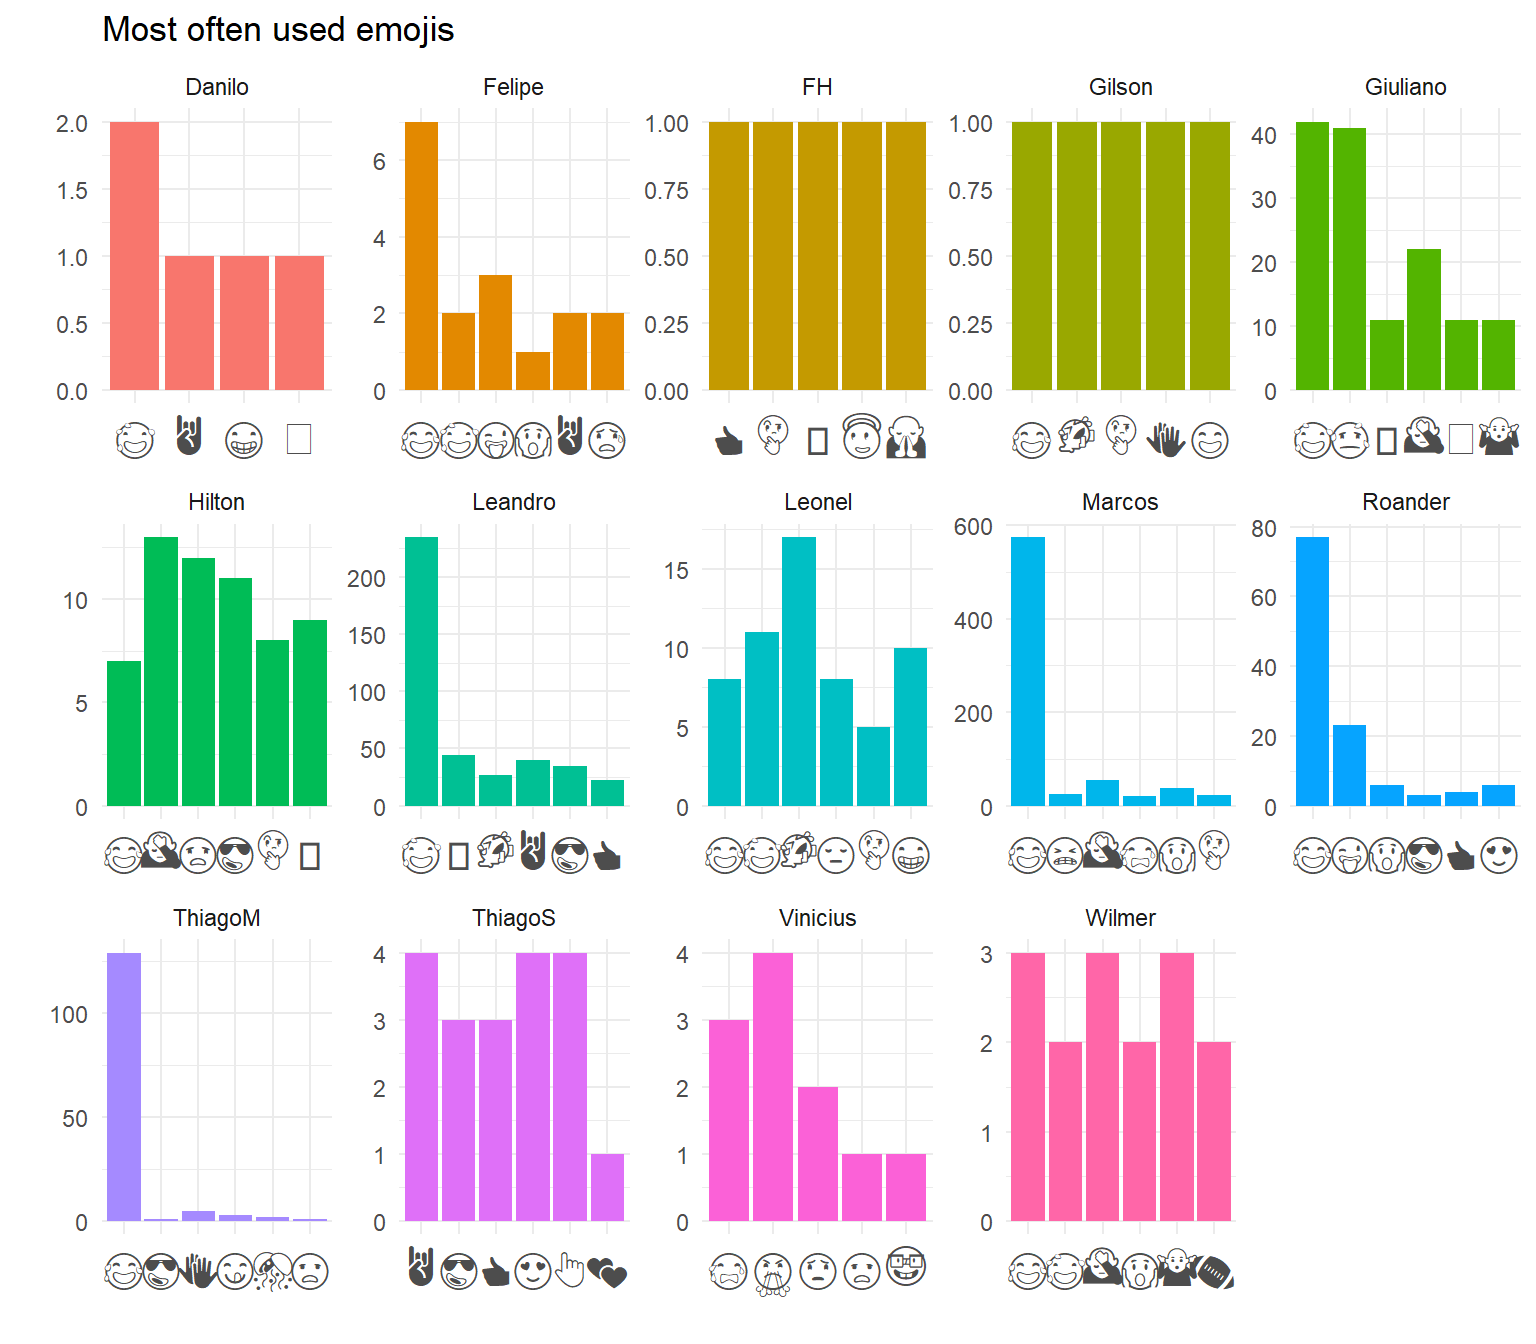
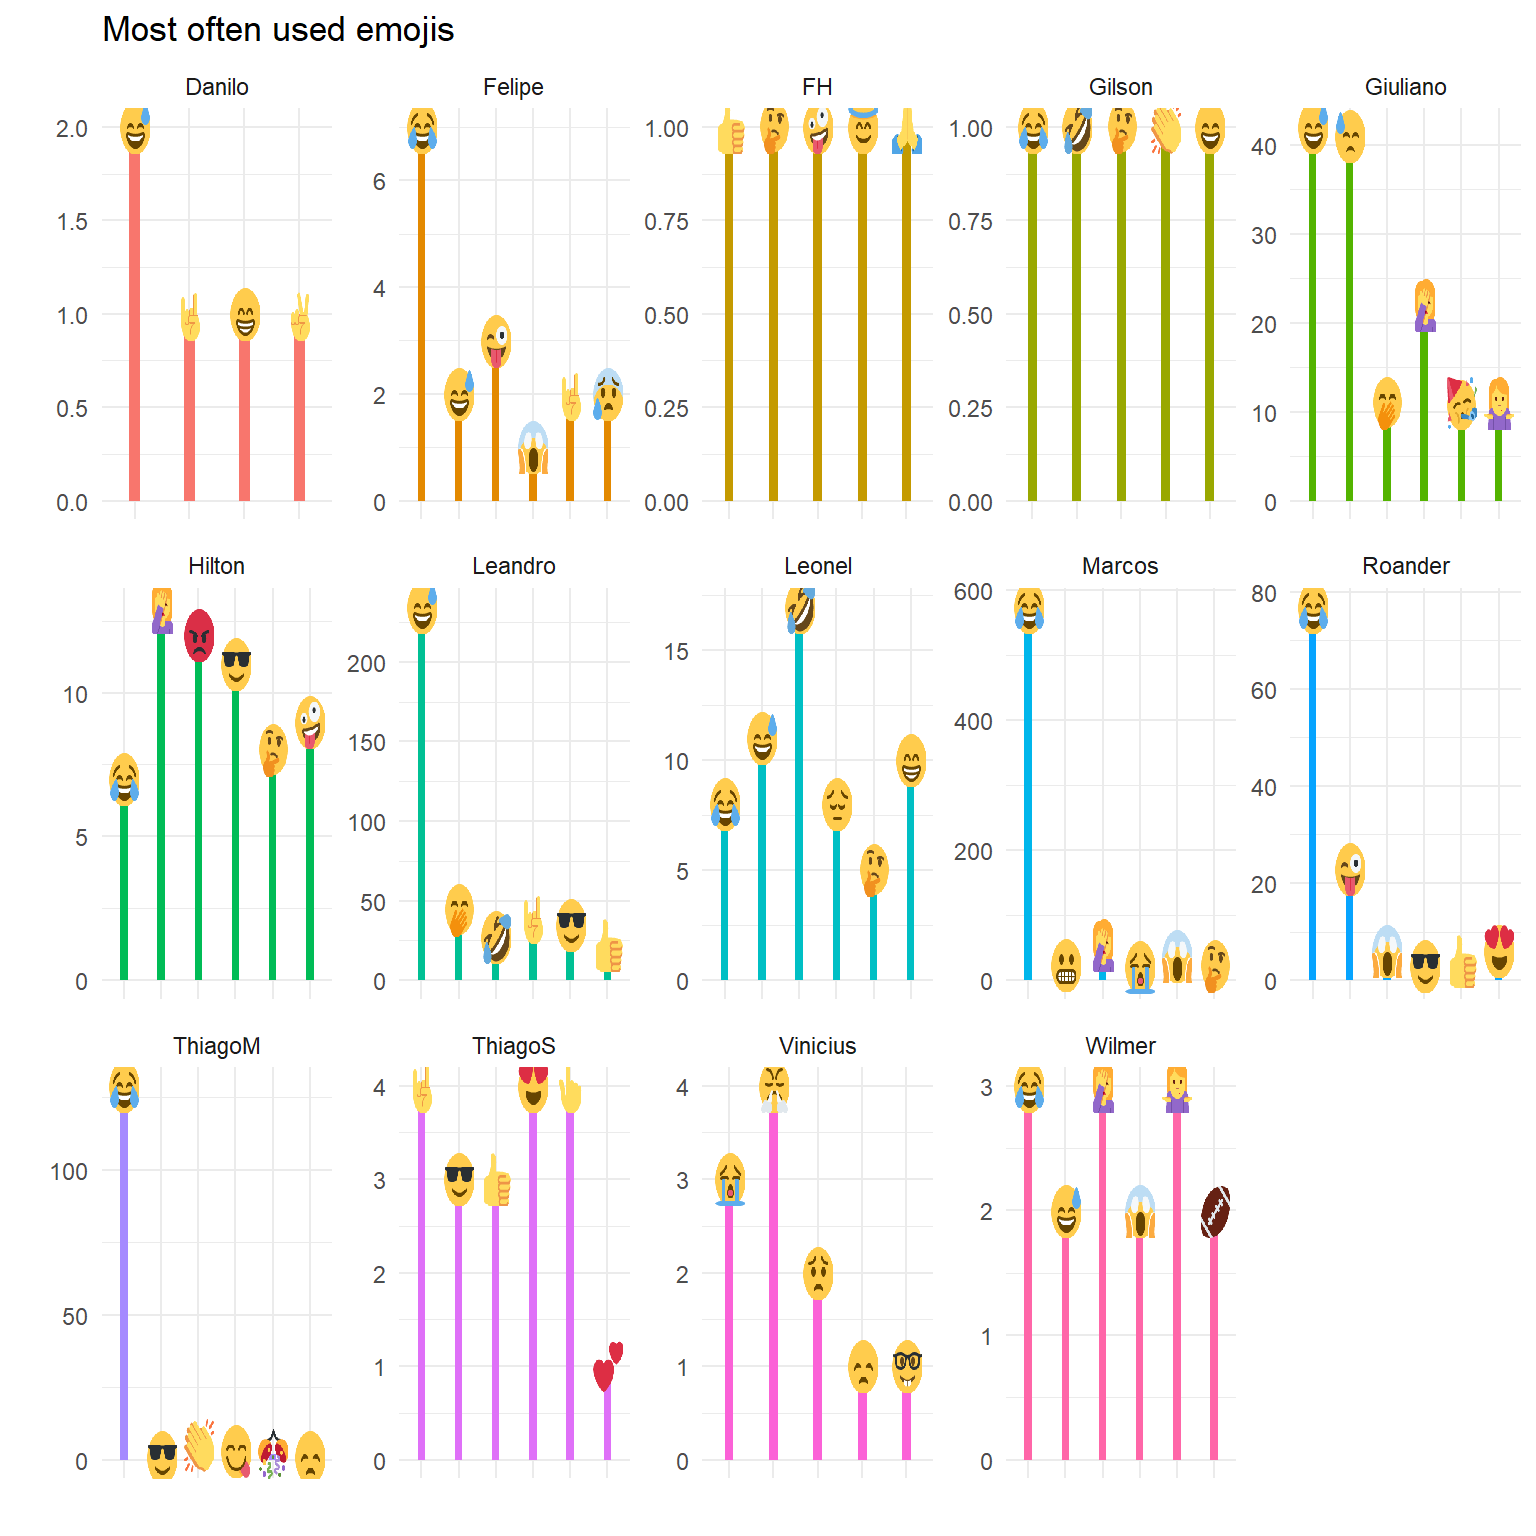
Mudança dos graficos de emoji para fazer fetch de png

diff --git a/content/post/2019-10-14-análise-de-sentimentos-via-emojis-em-chat-do-whatsapp.html b/content/post/2019-10-14-análise-de-sentimentos-via-emojis-em-chat-do-whatsapp.html
@@ -362,7 +362,7 @@ chat %&gt;%
 </div>
 <div id="emojis" class="section level2">
 <h2>Emoji’s</h2>
-<p>Como o <code>rwhatsapp</code> importa separadamente a informação sobre Emoji’s, podemos explorar a popularidade dos mesmos.</p>
+<p>Emojis são símbolos gráficos <a href="https://home.unicode.org/">Unicode</a>, usados como uma abreviação para expressar conceitos e idéias, existem centenas de emojis. Como o <code>rwhatsapp</code> importa separadamente a informação sobre Emoji’s, podemos explorar a sua popularidade nas trocas de mensagem do grupo.</p>
 <pre class="r"><code># lets see the nested emoji structure
 chat %&gt;% 
   select(time, author, emoji, emoji_name) %&gt;% 
@@ -532,9 +532,12 @@ angry face with horns
 <div id="emoji-mais-usado" class="section level3">
 <h3>EMOJI mais usado</h3>
 <p>Antes de <em>rankear</em> os <code>Emijis</code>, vamos remover as usas variações. As variações é quando vc altera por exemplo cor da pele ou do cabelo do <code>Emiji's</code>, essas variações são codificadas através da composição de vários caracteres unicode, o primeiro para dizer qual é o <code>Emoji</code> e so segundo para implementar uma variação. Quando o computador ou o celular lê esses caracteres faz uma composição e exibe como somente um. Esse processo é chamado de <a href="https://en.wikipedia.org/wiki/Orthographic_ligature">“ligadura” (<em>ligatures</em>)</a>, e tem algumas <a href="https://codepen.io/tuxsudo/pen/EwqKjy">implicações interessantes</a>.</p>
-<p>Então, antes de rankear, vamos manter somente o primeiro caracter <a href="https://home.unicode.org/">unicode</a> do Emoji, removendo todo o resto.</p>
-<pre class="r"><code>## emoji ranking
-chat %&gt;% 
+<p>Então, antes de rankear, vamos manter somente o primeiro caracter <a href="https://home.unicode.org/">Unicode</a> do Emoji, removendo todo o resto.</p>
+<pre class="r"><code># use to fecth a PNG image of a Emoji from https://abs.twimg.com
+library(ggimage)
+
+## emoji ranking
+plot.data &lt;- chat %&gt;% 
   unnest(emoji, emoji_name) %&gt;% 
   mutate( emoji = str_sub(emoji, end = 1)) %&gt;% # remove ligatures
   mutate( emoji_name = str_remove(emoji_name, &quot;:.*&quot;)) %&gt;% # remove ligatures names
@@ -542,10 +545,18 @@ chat %&gt;%
   # plot top 20 emoji
   top_n(20, n) %&gt;% 
   arrange(desc(n)) %&gt;% 
-  ggplot(aes(x=reorder(emoji_name, n), y=n, fill=n, color=n)) +
-  geom_col(show.legend = FALSE, width = .1) +
-  geom_point(show.legend = FALSE, size = 3) +
-  geom_text(aes(label=emoji), size=8, nudge_y = 25, nudge_x = .3) +
+  # builds a image URL with the Unicode value of the Emoji
+  mutate( emoji_url = map_chr(emoji, 
+    ~paste0( &quot;https://abs.twimg.com/emoji/v2/72x72/&quot;, as.hexmode(utf8ToInt(.x)),&quot;.png&quot;)) 
+  )
+
+
+# plot the ranking
+plot.data %&gt;% 
+  ggplot(aes(x=reorder(emoji_name, n), y=n)) +
+  geom_col(aes(fill=n), show.legend = FALSE, width = .2) +
+  geom_point(aes(color=n), show.legend = FALSE, size = 3) +
+  geom_image(aes(image=emoji_url), size=.045) +
   scale_fill_gradient(low=&quot;#2b83ba&quot;,high=&quot;#d7191c&quot;) +
   scale_color_gradient(low=&quot;#2b83ba&quot;,high=&quot;#d7191c&quot;) +
   ylab(&quot;&quot;) +
@@ -556,29 +567,37 @@ chat %&gt;%
   theme()</code></pre>
 <p><img src="/post/2019-10-14-análise-de-sentimentos-via-emojis-em-chat-do-whatsapp_files/figure-html/emojiRanking-1.png" width="864" /></p>
 <p>A mesma análise pode ser feita, por remetente do grupo, mostrando qual é o <code>Emoji</code> preferido ou mais utilizado por cada um.</p>
-<pre class="r"><code>## emoji by author
-chat %&gt;%
+<pre class="r"><code># emoji rank by author
+plot.data &lt;- chat %&gt;%
   unnest(emoji, emoji_name) %&gt;%
   mutate( emoji = str_sub(emoji, end = 1)) %&gt;% # remove nuancias
   count(author, emoji, emoji_name, sort = TRUE) %&gt;%
   # plot top 6 emoji from each author
   group_by(author) %&gt;%
   top_n(n = 6, n) %&gt;%
-  slice(1:6) %&gt;%
-  ggplot(aes(x = reorder(emoji, -n), y = n, fill = author, group=author)) +
-  geom_col(show.legend = FALSE) +
+  slice(1:6) %&gt;% 
+  # builds a image URL with the Unicode value of the Emoji
+  mutate( emoji_url = map_chr(emoji, 
+    ~paste0(&quot;https://abs.twimg.com/emoji/v2/72x72/&quot;,as.hexmode(utf8ToInt(.x)),&quot;.png&quot;)) )
+
+# plot data
+plot.data %&gt;% 
+  ggplot(aes(x = reorder(emoji, -n), y = n)) +
+  geom_col(aes(fill = author, group=author), show.legend = FALSE, width = .20) +
+  # use to fecth a PNG image of a Emoji from https://abs.twimg.com
+  geom_image(aes(image=emoji_url), size=.13) +
   ylab(&quot;&quot;) +
   xlab(&quot;&quot;) +
   facet_wrap(~author, ncol = 5, scales = &quot;free&quot;)  +
   ggtitle(&quot;Most often used emojis&quot;) +
   theme_minimal() +
-  theme(axis.text.x = element_text(size=18))</code></pre>
+  theme(axis.text.x = element_blank())</code></pre>
 <p><img src="/post/2019-10-14-análise-de-sentimentos-via-emojis-em-chat-do-whatsapp_files/figure-html/emojiByAuthors-1.png" width="768" /></p>
 </div>
 </div>
 <div id="analise-de-palavras" class="section level2">
 <h2>Análise de Palavras</h2>
-<p>Assim como fizemos com os <code>Emoji´s</code>, podemos fazar a análise de frequência das palabras mais utilizadas no grupo bem como é para cada um dos membros.</p>
+<p>Assim como fizemos com os <code>Emoji´s</code>, podemos fazar a análise de frequência das palabras mais utilizadas no grupo bem como é para cada um dos membros. O pacote <code>tidytext</code> deixa essa análise bem simples e direta de aplicar.</p>
 <div id="ranking-de-palavras" class="section level3">
 <h3>Ranking de Palavras</h3>
 <pre class="r"><code>library(tidytext)
@@ -640,23 +659,25 @@ chat %&gt;%
 </div>
 <div id="analise-de-sentimentos" class="section level2">
 <h2>Análise de Sentimentos</h2>
-<p>“Lorem ipsum dolor sit amet, consectetur adipiscing elit, sed do eiusmod tempor incididunt ut labore et dolore magna aliqua. Ut enim ad minim veniam, quis nostrud exercitation ullamco laboris nisi ut aliquip ex ea commodo consequat. Duis aute irure dolor in reprehenderit in voluptate velit esse cillum dolore eu fugiat nulla pariatur. Excepteur sint occaecat cupidatat non proident, sunt in culpa qui officia deserunt mollit anim id est laborum.”</p>
+<p>Como a conversa vem de um grupo de uma liga de <em>Fantasy</em>, seria interessante analisar as mensagens do ponto de vista emocional. Como as pessoas reagem de acordo com a sua performance no jogo ou para os times que torcem? Iremos fazer isso de duas maneiras, a primeira é utilizando o <a href="https://www.clarin.si/repository/xmlui/handle/11356/1048">Emoji Sentimental Rank</a> e o outro, também com base nos Emojis, usaremos o seus “nomes” para cruzar com bases léxicas de classificação de palabras, para valiar os sentimentos e intensidades envolvidas.</p>
 <div id="emoji-sentiment-rank" class="section level3">
 <h3>Emoji Sentiment Rank</h3>
-<p>“Lorem ipsum dolor sit amet, consectetur adipiscing elit, sed do eiusmod tempor incididunt ut labore et dolore magna aliqua. Ut enim ad minim veniam, quis nostrud exercitation ullamco laboris nisi ut aliquip ex ea commodo consequat. Duis aute irure dolor in reprehenderit in voluptate velit esse cillum dolore eu fugiat nulla pariatur. Excepteur sint occaecat cupidatat non proident, sunt in culpa qui officia deserunt mollit anim id est laborum.”</p>
+<p>Kralj Novak P, Smailović J, Sluban B, Mozetič forneceram o primeiro léxico de sentimentos emoji, chamado de <a href="http://kt.ijs.si/data/Emoji_sentiment_ranking/index.html">Ranking de sentimentos Emoji</a> que mapeia os sentimentos dos 751 emojis mais usados. O sentimento dos emojis é calculado a partir do sentimento de 70 mil tweets nos quais eles ocorrem, e foram rotulados por 83 anotadores humanos em 13 idiomas europeus. O processo e a análise da classificação de sentimentos emoji são descritos no artigo <a href="https://journals.plos.org/plosone/article?id=10.1371/journal.pone.0144296">Sentiment of Emojis</a>, de 2015.</p>
+<p>Usaremos o pacote <code>rvest</code> para scrapear diretamente o <a href="http://kt.ijs.si/data/Emoji_sentiment_ranking/index.html">rank</a>, e transformá-lo numa data.frame para incorporar na nossa análise.</p>
 <pre class="r"><code>library(rvest)
 
+# fecht the html page
 base.url &lt;- &quot;http://kt.ijs.si/data/Emoji_sentiment_ranking/index.html&quot;
-
 doc &lt;- read_html(base.url)
 
+# find the emoji table and process
 emoji.table &lt;- doc %&gt;% 
   html_node(&quot;#myTable&quot;) %&gt;% 
   html_table() %&gt;% 
   as_tibble()
 
+# lets look the result
 emoji.table %&gt;% 
-  #arrange(desc(8)) %&gt;% 
   head(10) %&gt;% 
   kable() %&gt;% 
   kable_styling(font_size = 9)</code></pre>
@@ -1084,7 +1105,6 @@ Miscellaneous Symbols and Pictographs
 </tr>
 </tbody>
 </table>
-<p>“Lorem ipsum dolor sit amet, consectetur adipiscing elit, sed do eiusmod tempor incididunt ut labore et dolore magna aliqua. Ut enim ad minim veniam, quis nostrud exercitation ullamco laboris nisi ut aliquip ex ea commodo consequat. Duis aute irure dolor in reprehenderit in voluptate velit esse cillum dolore eu fugiat nulla pariatur. Excepteur sint occaecat cupidatat non proident, sunt in culpa qui officia deserunt mollit anim id est laborum.”</p>
 <pre class="r"><code># geting sentiment score and cleaning emoji.table colnames
 emoji.sentiment &lt;- emoji.table %&gt;% 
   select(1,6:9) %&gt;% 

diff --git a/public/2019/10/análise-de-sentimentos-via-emojis-em-chat-do-whatsapp/index.html b/public/2019/10/análise-de-sentimentos-via-emojis-em-chat-do-whatsapp/index.html
@@ -633,7 +633,7 @@ chat %&gt;%
 </div>
 <div id="emojis" class="section level2">
 <h2>Emoji’s</h2>
-<p>Como o <code>rwhatsapp</code> importa separadamente a informação sobre Emoji’s, podemos explorar a popularidade dos mesmos.</p>
+<p>Emojis são símbolos gráficos <a href="https://home.unicode.org/">Unicode</a>, usados como uma abreviação para expressar conceitos e idéias, existem centenas de emojis. Como o <code>rwhatsapp</code> importa separadamente a informação sobre Emoji’s, podemos explorar a sua popularidade nas trocas de mensagem do grupo.</p>
 <pre class="r"><code># lets see the nested emoji structure
 chat %&gt;% 
   select(time, author, emoji, emoji_name) %&gt;% 
@@ -803,9 +803,12 @@ angry face with horns
 <div id="emoji-mais-usado" class="section level3">
 <h3>EMOJI mais usado</h3>
 <p>Antes de <em>rankear</em> os <code>Emijis</code>, vamos remover as usas variações. As variações é quando vc altera por exemplo cor da pele ou do cabelo do <code>Emiji's</code>, essas variações são codificadas através da composição de vários caracteres unicode, o primeiro para dizer qual é o <code>Emoji</code> e so segundo para implementar uma variação. Quando o computador ou o celular lê esses caracteres faz uma composição e exibe como somente um. Esse processo é chamado de <a href="https://en.wikipedia.org/wiki/Orthographic_ligature">“ligadura” (<em>ligatures</em>)</a>, e tem algumas <a href="https://codepen.io/tuxsudo/pen/EwqKjy">implicações interessantes</a>.</p>
-<p>Então, antes de rankear, vamos manter somente o primeiro caracter <a href="https://home.unicode.org/">unicode</a> do Emoji, removendo todo o resto.</p>
-<pre class="r"><code>## emoji ranking
-chat %&gt;% 
+<p>Então, antes de rankear, vamos manter somente o primeiro caracter <a href="https://home.unicode.org/">Unicode</a> do Emoji, removendo todo o resto.</p>
+<pre class="r"><code># use to fecth a PNG image of a Emoji from https://abs.twimg.com
+library(ggimage)
+
+## emoji ranking
+plot.data &lt;- chat %&gt;% 
   unnest(emoji, emoji_name) %&gt;% 
   mutate( emoji = str_sub(emoji, end = 1)) %&gt;% # remove ligatures
   mutate( emoji_name = str_remove(emoji_name, &quot;:.*&quot;)) %&gt;% # remove ligatures names
@@ -813,10 +816,18 @@ chat %&gt;%
   # plot top 20 emoji
   top_n(20, n) %&gt;% 
   arrange(desc(n)) %&gt;% 
-  ggplot(aes(x=reorder(emoji_name, n), y=n, fill=n, color=n)) +
-  geom_col(show.legend = FALSE, width = .1) +
-  geom_point(show.legend = FALSE, size = 3) +
-  geom_text(aes(label=emoji), size=8, nudge_y = 25, nudge_x = .3) +
+  # builds a image URL with the Unicode value of the Emoji
+  mutate( emoji_url = map_chr(emoji, 
+    ~paste0( &quot;https://abs.twimg.com/emoji/v2/72x72/&quot;, as.hexmode(utf8ToInt(.x)),&quot;.png&quot;)) 
+  )
+
+
+# plot the ranking
+plot.data %&gt;% 
+  ggplot(aes(x=reorder(emoji_name, n), y=n)) +
+  geom_col(aes(fill=n), show.legend = FALSE, width = .2) +
+  geom_point(aes(color=n), show.legend = FALSE, size = 3) +
+  geom_image(aes(image=emoji_url), size=.045) +
   scale_fill_gradient(low=&quot;#2b83ba&quot;,high=&quot;#d7191c&quot;) +
   scale_color_gradient(low=&quot;#2b83ba&quot;,high=&quot;#d7191c&quot;) +
   ylab(&quot;&quot;) +
@@ -827,29 +838,37 @@ chat %&gt;%
   theme()</code></pre>
 <p><img src="/post/2019-10-14-análise-de-sentimentos-via-emojis-em-chat-do-whatsapp_files/figure-html/emojiRanking-1.png" width="864" /></p>
 <p>A mesma análise pode ser feita, por remetente do grupo, mostrando qual é o <code>Emoji</code> preferido ou mais utilizado por cada um.</p>
-<pre class="r"><code>## emoji by author
-chat %&gt;%
+<pre class="r"><code># emoji rank by author
+plot.data &lt;- chat %&gt;%
   unnest(emoji, emoji_name) %&gt;%
   mutate( emoji = str_sub(emoji, end = 1)) %&gt;% # remove nuancias
   count(author, emoji, emoji_name, sort = TRUE) %&gt;%
   # plot top 6 emoji from each author
   group_by(author) %&gt;%
   top_n(n = 6, n) %&gt;%
-  slice(1:6) %&gt;%
-  ggplot(aes(x = reorder(emoji, -n), y = n, fill = author, group=author)) +
-  geom_col(show.legend = FALSE) +
+  slice(1:6) %&gt;% 
+  # builds a image URL with the Unicode value of the Emoji
+  mutate( emoji_url = map_chr(emoji, 
+    ~paste0(&quot;https://abs.twimg.com/emoji/v2/72x72/&quot;,as.hexmode(utf8ToInt(.x)),&quot;.png&quot;)) )
+
+# plot data
+plot.data %&gt;% 
+  ggplot(aes(x = reorder(emoji, -n), y = n)) +
+  geom_col(aes(fill = author, group=author), show.legend = FALSE, width = .20) +
+  # use to fecth a PNG image of a Emoji from https://abs.twimg.com
+  geom_image(aes(image=emoji_url), size=.13) +
   ylab(&quot;&quot;) +
   xlab(&quot;&quot;) +
   facet_wrap(~author, ncol = 5, scales = &quot;free&quot;)  +
   ggtitle(&quot;Most often used emojis&quot;) +
   theme_minimal() +
-  theme(axis.text.x = element_text(size=18))</code></pre>
+  theme(axis.text.x = element_blank())</code></pre>
 <p><img src="/post/2019-10-14-análise-de-sentimentos-via-emojis-em-chat-do-whatsapp_files/figure-html/emojiByAuthors-1.png" width="768" /></p>
 </div>
 </div>
 <div id="analise-de-palavras" class="section level2">
 <h2>Análise de Palavras</h2>
-<p>Assim como fizemos com os <code>Emoji´s</code>, podemos fazar a análise de frequência das palabras mais utilizadas no grupo bem como é para cada um dos membros.</p>
+<p>Assim como fizemos com os <code>Emoji´s</code>, podemos fazar a análise de frequência das palabras mais utilizadas no grupo bem como é para cada um dos membros. O pacote <code>tidytext</code> deixa essa análise bem simples e direta de aplicar.</p>
 <div id="ranking-de-palavras" class="section level3">
 <h3>Ranking de Palavras</h3>
 <pre class="r"><code>library(tidytext)
@@ -911,23 +930,25 @@ chat %&gt;%
 </div>
 <div id="analise-de-sentimentos" class="section level2">
 <h2>Análise de Sentimentos</h2>
-<p>“Lorem ipsum dolor sit amet, consectetur adipiscing elit, sed do eiusmod tempor incididunt ut labore et dolore magna aliqua. Ut enim ad minim veniam, quis nostrud exercitation ullamco laboris nisi ut aliquip ex ea commodo consequat. Duis aute irure dolor in reprehenderit in voluptate velit esse cillum dolore eu fugiat nulla pariatur. Excepteur sint occaecat cupidatat non proident, sunt in culpa qui officia deserunt mollit anim id est laborum.”</p>
+<p>Como a conversa vem de um grupo de uma liga de <em>Fantasy</em>, seria interessante analisar as mensagens do ponto de vista emocional. Como as pessoas reagem de acordo com a sua performance no jogo ou para os times que torcem? Iremos fazer isso de duas maneiras, a primeira é utilizando o <a href="https://www.clarin.si/repository/xmlui/handle/11356/1048">Emoji Sentimental Rank</a> e o outro, também com base nos Emojis, usaremos o seus “nomes” para cruzar com bases léxicas de classificação de palabras, para valiar os sentimentos e intensidades envolvidas.</p>
 <div id="emoji-sentiment-rank" class="section level3">
 <h3>Emoji Sentiment Rank</h3>
-<p>“Lorem ipsum dolor sit amet, consectetur adipiscing elit, sed do eiusmod tempor incididunt ut labore et dolore magna aliqua. Ut enim ad minim veniam, quis nostrud exercitation ullamco laboris nisi ut aliquip ex ea commodo consequat. Duis aute irure dolor in reprehenderit in voluptate velit esse cillum dolore eu fugiat nulla pariatur. Excepteur sint occaecat cupidatat non proident, sunt in culpa qui officia deserunt mollit anim id est laborum.”</p>
+<p>Kralj Novak P, Smailović J, Sluban B, Mozetič forneceram o primeiro léxico de sentimentos emoji, chamado de <a href="http://kt.ijs.si/data/Emoji_sentiment_ranking/index.html">Ranking de sentimentos Emoji</a> que mapeia os sentimentos dos 751 emojis mais usados. O sentimento dos emojis é calculado a partir do sentimento de 70 mil tweets nos quais eles ocorrem, e foram rotulados por 83 anotadores humanos em 13 idiomas europeus. O processo e a análise da classificação de sentimentos emoji são descritos no artigo <a href="https://journals.plos.org/plosone/article?id=10.1371/journal.pone.0144296">Sentiment of Emojis</a>, de 2015.</p>
+<p>Usaremos o pacote <code>rvest</code> para scrapear diretamente o <a href="http://kt.ijs.si/data/Emoji_sentiment_ranking/index.html">rank</a>, e transformá-lo numa data.frame para incorporar na nossa análise.</p>
 <pre class="r"><code>library(rvest)
 
+# fecht the html page
 base.url &lt;- &quot;http://kt.ijs.si/data/Emoji_sentiment_ranking/index.html&quot;
-
 doc &lt;- read_html(base.url)
 
+# find the emoji table and process
 emoji.table &lt;- doc %&gt;% 
   html_node(&quot;#myTable&quot;) %&gt;% 
   html_table() %&gt;% 
   as_tibble()
 
+# lets look the result
 emoji.table %&gt;% 
-  #arrange(desc(8)) %&gt;% 
   head(10) %&gt;% 
   kable() %&gt;% 
   kable_styling(font_size = 9)</code></pre>
@@ -1355,7 +1376,6 @@ Miscellaneous Symbols and Pictographs
 </tr>
 </tbody>
 </table>
-<p>“Lorem ipsum dolor sit amet, consectetur adipiscing elit, sed do eiusmod tempor incididunt ut labore et dolore magna aliqua. Ut enim ad minim veniam, quis nostrud exercitation ullamco laboris nisi ut aliquip ex ea commodo consequat. Duis aute irure dolor in reprehenderit in voluptate velit esse cillum dolore eu fugiat nulla pariatur. Excepteur sint occaecat cupidatat non proident, sunt in culpa qui officia deserunt mollit anim id est laborum.”</p>
 <pre class="r"><code># geting sentiment score and cleaning emoji.table colnames
 emoji.sentiment &lt;- emoji.table %&gt;% 
   select(1,6:9) %&gt;% 
